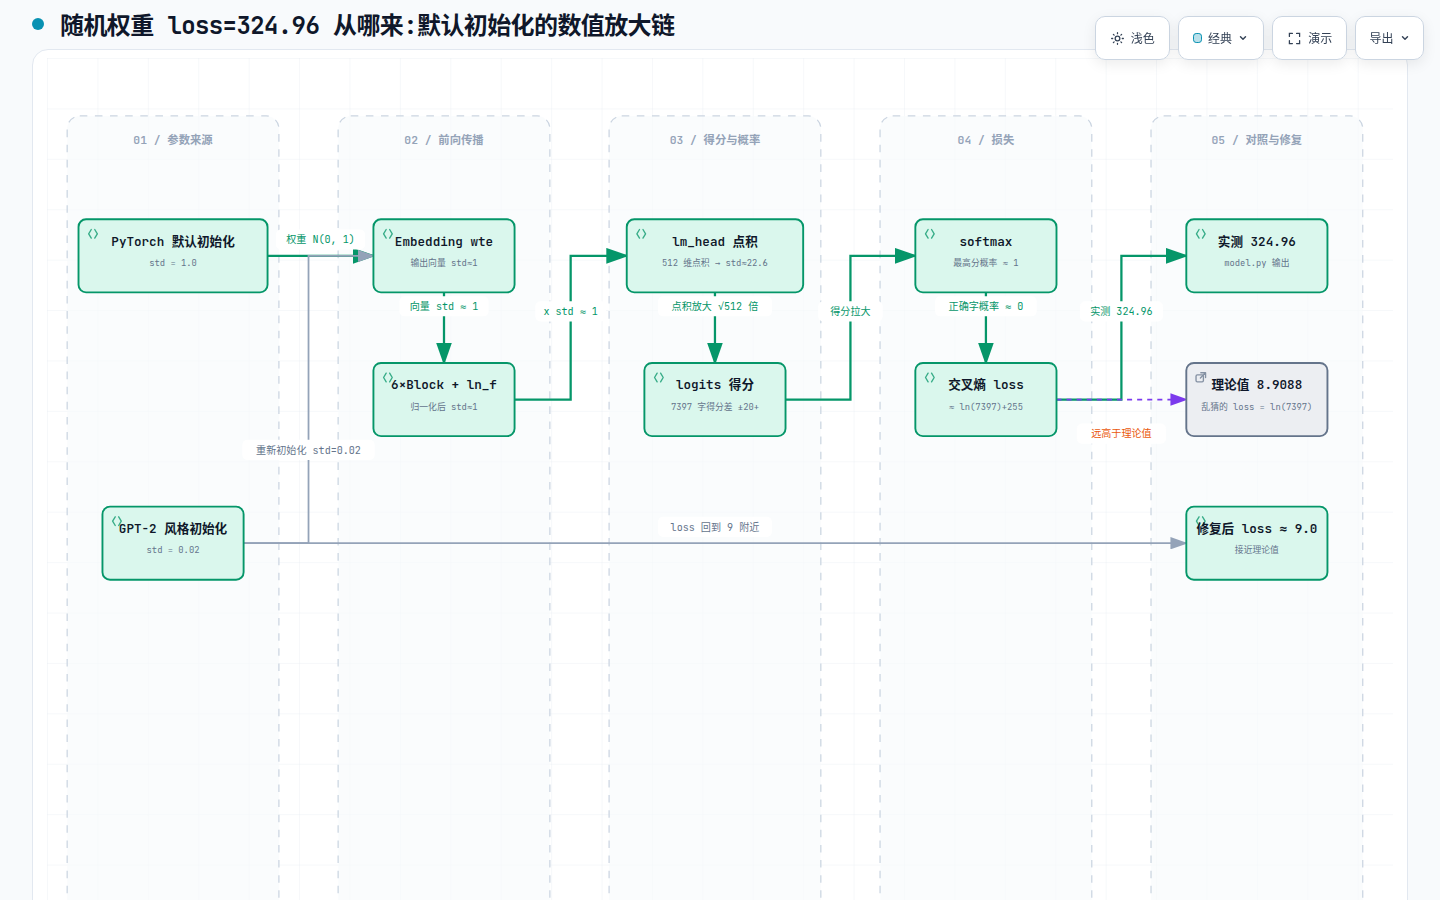
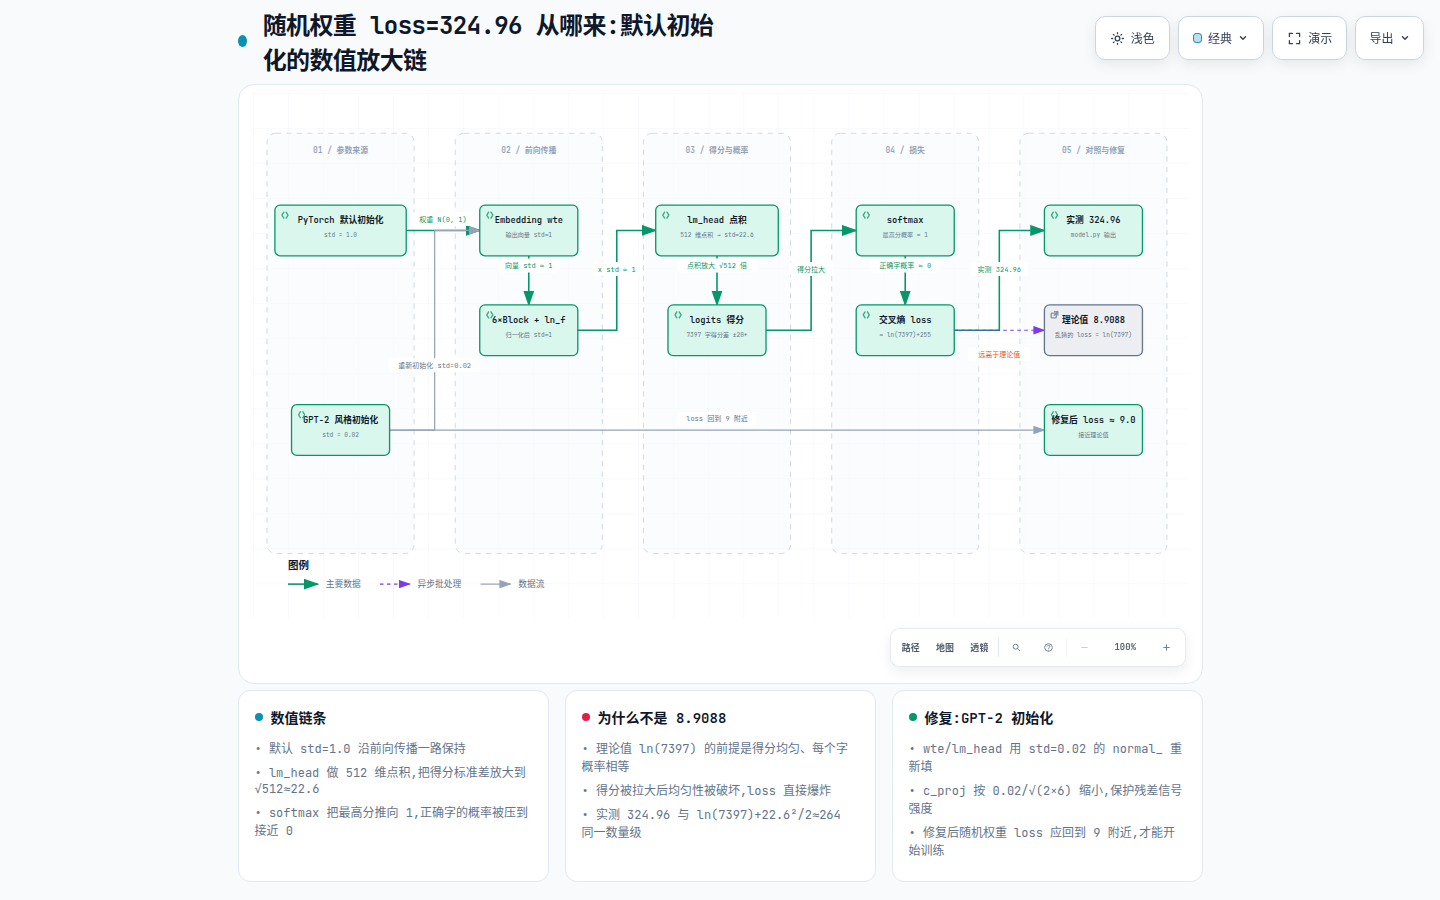
补齐 GPT-2 风格初始化，随机权重 loss 回到理论值附近

diff --git a/docs/init-explained.html b/docs/init-explained.html
@@ -5004,7 +5004,7 @@
     <!-- Main Diagram -->
     <div class="diagram-container" data-detail-level="read"
          data-preset-badge-editorial-plate="ARCHIFY / 图版 04">
-      <svg viewBox="0 0 1068 860" role="img" lang="zh-CN" aria-labelledby="archify-diagram-title archify-diagram-description" data-preset="classic" data-quality-profile="showcase">
+      <svg viewBox="0 0 1068 600" role="img" lang="zh-CN" aria-labelledby="archify-diagram-title archify-diagram-description" data-preset="classic" data-quality-profile="showcase">
         <title id="archify-diagram-title">随机权重 loss=324.96 从哪来:默认初始化的数值放大链</title>
         <desc id="archify-diagram-description">由 Archify 生成的数据流图。</desc>
         <!-- Definitions -->
@@ -5030,19 +5030,19 @@
         <rect width="100%" height="100%" fill="url(#grid)" />
 
         <!-- Data Stages -->
-        <rect data-graph-role="structural-frame" data-composition-frame-kind="stage" data-composition-frame-id="0" x="16" y="46" width="168" height="740" rx="10" class="c-lane" stroke-width="1"/>
+        <rect data-graph-role="structural-frame" data-composition-frame-kind="stage" data-composition-frame-id="0" x="16" y="46" width="168" height="480" rx="10" class="c-lane" stroke-width="1"/>
         <text x="100" y="68" class="t-dim" font-size="9" font-weight="600" text-anchor="middle">01 / 参数来源</text>
 
-        <rect data-graph-role="structural-frame" data-composition-frame-kind="stage" data-composition-frame-id="1" x="231" y="46" width="168" height="740" rx="10" class="c-lane" stroke-width="1"/>
+        <rect data-graph-role="structural-frame" data-composition-frame-kind="stage" data-composition-frame-id="1" x="231" y="46" width="168" height="480" rx="10" class="c-lane" stroke-width="1"/>
         <text x="315" y="68" class="t-dim" font-size="9" font-weight="600" text-anchor="middle">02 / 前向传播</text>
 
-        <rect data-graph-role="structural-frame" data-composition-frame-kind="stage" data-composition-frame-id="2" x="446" y="46" width="168" height="740" rx="10" class="c-lane" stroke-width="1"/>
+        <rect data-graph-role="structural-frame" data-composition-frame-kind="stage" data-composition-frame-id="2" x="446" y="46" width="168" height="480" rx="10" class="c-lane" stroke-width="1"/>
         <text x="530" y="68" class="t-dim" font-size="9" font-weight="600" text-anchor="middle">03 / 得分与概率</text>
 
-        <rect data-graph-role="structural-frame" data-composition-frame-kind="stage" data-composition-frame-id="3" x="661" y="46" width="168" height="740" rx="10" class="c-lane" stroke-width="1"/>
+        <rect data-graph-role="structural-frame" data-composition-frame-kind="stage" data-composition-frame-id="3" x="661" y="46" width="168" height="480" rx="10" class="c-lane" stroke-width="1"/>
         <text x="745" y="68" class="t-dim" font-size="9" font-weight="600" text-anchor="middle">04 / 损失</text>
 
-        <rect data-graph-role="structural-frame" data-composition-frame-kind="stage" data-composition-frame-id="4" x="876" y="46" width="168" height="740" rx="10" class="c-lane" stroke-width="1"/>
+        <rect data-graph-role="structural-frame" data-composition-frame-kind="stage" data-composition-frame-id="4" x="876" y="46" width="168" height="480" rx="10" class="c-lane" stroke-width="1"/>
         <text x="960" y="68" class="t-dim" font-size="9" font-weight="600" text-anchor="middle">05 / 对照与修复</text>
 
         <!-- Flow paths -->
@@ -5235,18 +5235,18 @@
 
         <!-- Legend -->
         <g data-legend="">
-          <text x="40" y="804" class="t-primary" font-size="12" font-weight="650">图例</text>
-          <g data-legend-semantic-kind="emphasis" data-legend-x="40" data-legend-baseline="824" data-legend-width="83">
-            <path d="M 40 821 L 74 821" class="a-emphasis" stroke-width="1.8" marker-end="url(#arrowhead-emphasis)"/>
-            <text x="83" y="824" class="t-muted" font-size="10" font-weight="500">主要数据</text>
+          <text x="40" y="544" class="t-primary" font-size="12" font-weight="650">图例</text>
+          <g data-legend-semantic-kind="emphasis" data-legend-x="40" data-legend-baseline="564" data-legend-width="83">
+            <path d="M 40 561 L 74 561" class="a-emphasis" stroke-width="1.8" marker-end="url(#arrowhead-emphasis)"/>
+            <text x="83" y="564" class="t-muted" font-size="10" font-weight="500">主要数据</text>
           </g>
-          <g data-legend-semantic-kind="dashed" data-legend-x="145" data-legend-baseline="824" data-legend-width="93">
-            <path d="M 145 821 L 179 821" class="a-dashed" stroke-width="1.4" marker-end="url(#arrowhead-dashed)"/>
-            <text x="188" y="824" class="t-muted" font-size="10" font-weight="500">异步批处理</text>
+          <g data-legend-semantic-kind="dashed" data-legend-x="145" data-legend-baseline="564" data-legend-width="93">
+            <path d="M 145 561 L 179 561" class="a-dashed" stroke-width="1.4" marker-end="url(#arrowhead-dashed)"/>
+            <text x="188" y="564" class="t-muted" font-size="10" font-weight="500">异步批处理</text>
           </g>
-          <g data-legend-semantic-kind="default" data-legend-x="260" data-legend-baseline="824" data-legend-width="73">
-            <path d="M 260 821 L 294 821" class="a-default" stroke-width="1.4" marker-end="url(#arrowhead)"/>
-            <text x="303" y="824" class="t-muted" font-size="10" font-weight="500">数据流</text>
+          <g data-legend-semantic-kind="default" data-legend-x="260" data-legend-baseline="564" data-legend-width="73">
+            <path d="M 260 561 L 294 561" class="a-default" stroke-width="1.4" marker-end="url(#arrowhead)"/>
+            <text x="303" y="564" class="t-muted" font-size="10" font-weight="500">数据流</text>
           </g>
         </g>
       </svg>

diff --git a/docs/init-explained.visual-check.html b/docs/init-explained.visual-check.html
@@ -9,23 +9,23 @@
 </style>
 </head>
 <body>
-<header><h1>Automated browser evidence</h1><p>init-explained.html · visual-check containment fail · perceptual visual review pending</p></header>
+<header><h1>Automated browser evidence</h1><p>init-explained.html · visual-check containment pass · perceptual visual review pending</p></header>
 <main class="grid">
       <figure>
         <img src="init-explained.visual-check.1440x900.light.png" alt="light 1440 by 900">
-        <figcaption><strong>LIGHT</strong> · 1440×900 · containment fail</figcaption>
+        <figcaption><strong>LIGHT</strong> · 1440×900 · containment pass</figcaption>
       </figure>
       <figure>
         <img src="init-explained.visual-check.1440x900.dark.png" alt="dark 1440 by 900">
-        <figcaption><strong>DARK</strong> · 1440×900 · containment fail</figcaption>
+        <figcaption><strong>DARK</strong> · 1440×900 · containment pass</figcaption>
       </figure>
       <figure>
         <img src="init-explained.visual-check.2048x1320.light.png" alt="light 2048 by 1320">
-        <figcaption><strong>LIGHT</strong> · 2048×1320 · containment fail</figcaption>
+        <figcaption><strong>LIGHT</strong> · 2048×1320 · containment pass</figcaption>
       </figure>
       <figure>
         <img src="init-explained.visual-check.2048x1320.dark.png" alt="dark 2048 by 1320">
-        <figcaption><strong>DARK</strong> · 2048×1320 · containment fail</figcaption>
+        <figcaption><strong>DARK</strong> · 2048×1320 · containment pass</figcaption>
       </figure>
 </main>
 </body>

diff --git a/model.py b/model.py
@@ -55,6 +55,7 @@ class CausalSelfAttention(nn.Module):
     """看i时，从头回看"""
     def __init__(self, config:GPTConfig):
         super().__init__()
+        self.mask: torch.Tensor
         self.n_embd = config.n_embd
         self.n_head = config.n_head
         self.head_size = self.n_embd // self.n_head
@@ -116,6 +117,20 @@ class GPT(nn.Module):
         )
         self.lm_head = nn.Linear(config.n_embd, config.vocab_size, bias=config.bias)
         self.lm_head.weight = self.transformer.wte.weight
+
+        # 初始化:普通权重 std=0.02;残差投影 c_proj 按 1/√(2·n_layer) 缩小
+        self.apply(self._init_weights)
+        for name, p in self.named_parameters():
+            if name.endswith('c_proj.weight'):
+                torch.nn.init.normal_(p, mean=0.0, std=0.02 / math.sqrt(2 * config.n_layer))
+
+    def _init_weights(self, module):
+        if isinstance(module, nn.Linear):
+            torch.nn.init.normal_(module.weight, mean=0.0, std=0.02)
+            if module.bias is not None:
+                torch.nn.init.zeros_(module.bias)
+        elif isinstance(module, nn.Embedding):
+            torch.nn.init.normal_(module.weight, mean=0.0, std=0.02)
 
     @override
     def forward(self, idx, targets=None):
